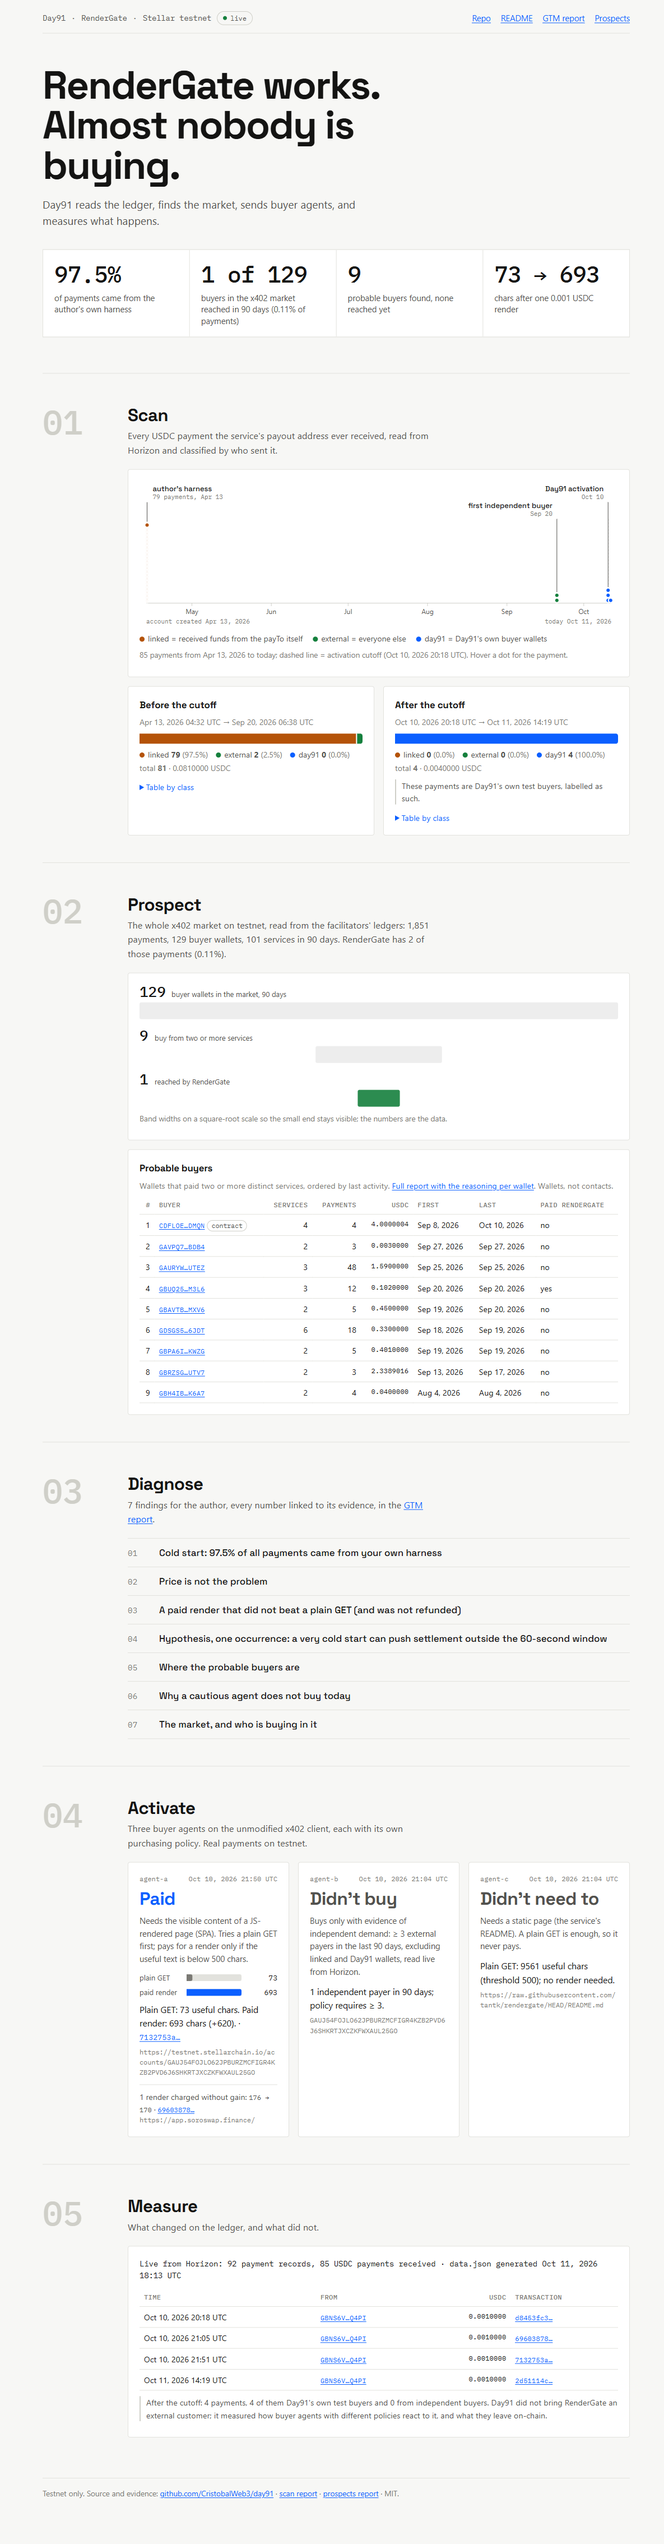
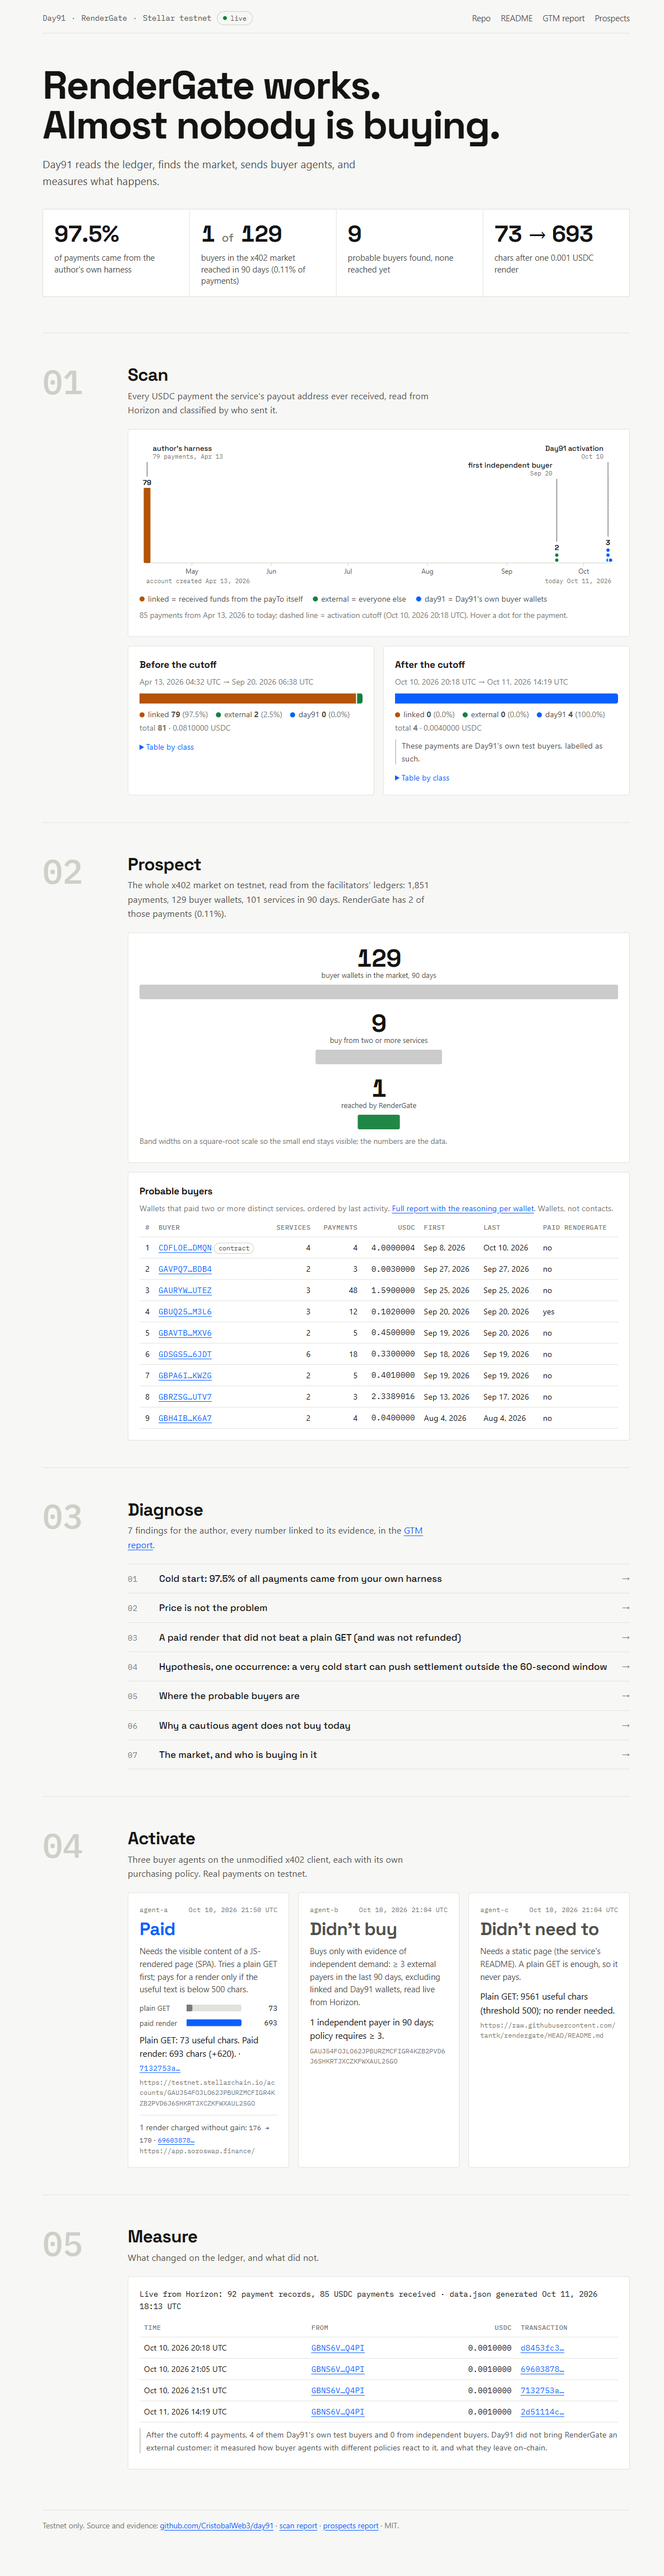
Funnel: columnas sólidas en la línea de tiempo, hero en Space Grotesk, embudo centrado, links y hallazgos
- 01 Scan: días con > 6 pagos como columna sólida escalada al día más cargado (79),
  con el conteo encima; días con pocos pagos como puntos con conteo (2, 3); rótulos
  del eje en dos líneas en móvil
- Hero: cifras en Space Grotesk con tabular-nums, 'of' menor y atenuado; titular en
  dos líneas
- 02 Prospect: embudo centrado con números de 44 px y bandas más contrastadas
- nav sin subrayado (hover), links de texto en acento con subrayado fino, sin estilo
  por defecto; flecha '→' en cada hallazgo con desplazamiento al hover; columna USDC
  al mismo tamaño que el resto
- docs/screenshots: 4 vistas regeneradas + hero.png y section-01-scan.png

diff --git a/docs/index.html b/docs/index.html
@@ -35,7 +35,8 @@
   html { scroll-behavior: smooth; }
   body { margin: 0; background: var(--bg); color: var(--fg); font: 16px/1.55 var(--body); -webkit-font-smoothing: antialiased; }
   main { max-width: 1080px; margin: 0 auto; padding: 20px 16px 80px; }
-  a { color: var(--accent); text-decoration-thickness: 1px; text-underline-offset: 2px; }
+  a, a:visited { color: var(--accent); text-decoration: underline; text-decoration-thickness: 1px; text-underline-offset: 3px; }
+  a:hover { text-decoration-thickness: 2px; }
   p { margin: 0 0 8px; }
   .muted { color: var(--muted); }
   .mono { font-family: var(--mono); font-size: 0.86em; }
@@ -50,12 +51,15 @@
   .pill::before { content: ""; width: 7px; height: 7px; border-radius: 50%; background: var(--muted); }
   .pill.live::before { background: var(--external); } .pill.snapshot::before { background: var(--linked); }
   nav { display: flex; flex-wrap: wrap; gap: 4px 18px; font-size: 0.92rem; }
+  nav a, nav a:visited { color: var(--fg-2); text-decoration: none; }
+  nav a:hover { color: var(--fg); text-decoration: underline; text-decoration-thickness: 1px; }
   .hero { padding: 56px 0 24px; }
-  h1 { font-family: var(--display); font-weight: 700; letter-spacing: -0.03em; line-height: 1.02; font-size: clamp(2.2rem, 6.2vw, 4.4rem); margin: 0 0 18px; max-width: 16ch; }
+  h1 { font-family: var(--display); font-weight: 700; letter-spacing: -0.03em; line-height: 1.02; font-size: clamp(2.2rem, 6.2vw, 4.4rem); margin: 0 0 18px; max-width: 26ch; }
   .sub { font-size: clamp(1.05rem, 1.6vw, 1.25rem); color: var(--fg-2); max-width: 60ch; margin: 0; }
   .tiles { display: grid; grid-template-columns: repeat(4, 1fr); gap: 1px; background: var(--line); border: 1px solid var(--line); margin: 36px 0 0; }
   .tile { background: var(--card); padding: 22px 20px 18px; min-width: 0; }
-  .tile .value { font-family: var(--mono); font-weight: 500; font-size: clamp(1.9rem, 3.4vw, 2.9rem); line-height: 1.05; letter-spacing: -0.02em; white-space: nowrap; }
+  .tile .value { font-family: var(--display); font-weight: 700; font-variant-numeric: tabular-nums; font-size: clamp(1.9rem, 3.4vw, 2.9rem); line-height: 1.05; letter-spacing: -0.02em; white-space: nowrap; }
+  .tile .value .of { font-size: 0.5em; font-weight: 500; color: var(--muted); margin: 0 0.15em; letter-spacing: 0; }
   .tile .label { color: var(--fg-2); font-size: 0.92rem; margin-top: 10px; line-height: 1.4; }
   @media (max-width: 760px) { .tiles { grid-template-columns: 1fr 1fr; } .tile { padding: 16px 14px 14px; } }
 
@@ -85,9 +89,11 @@
   .chart .leader { stroke: var(--fg-2); stroke-width: 1; fill: none; }
   .chart .pt.linked { fill: var(--linked); } .chart .pt.external { fill: var(--external); } .chart .pt.day91 { fill: var(--day91); }
   .chart .pt { stroke: var(--card); stroke-width: 2; }
-  .chart .band { fill: var(--fg); opacity: 0.08; }
-  .chart .band.hot { fill: var(--external); opacity: 0.9; }
-  .chart text.fval { font-family: var(--mono); font-size: 26px; font-weight: 500; fill: var(--fg); }
+  .chart .col.linked { fill: var(--linked); } .chart .col.external { fill: var(--external); } .chart .col.day91 { fill: var(--day91); }
+  .chart text.cnt { font-family: var(--display); font-weight: 700; font-size: 13px; fill: var(--fg); }
+  .chart .band { fill: var(--fg); opacity: 0.22; }
+  .chart .band.hot { fill: var(--external); opacity: 0.95; }
+  .chart text.fval { font-family: var(--display); font-weight: 700; font-variant-numeric: tabular-nums; font-size: 44px; letter-spacing: -0.02em; fill: var(--fg); }
   .chart text.flabel { font-size: 13px; fill: var(--fg-2); }
   .caption { font-size: 0.85rem; color: var(--muted); margin-top: 8px; }
 
@@ -106,15 +112,19 @@
   th, td { text-align: left; padding: 7px 8px; border-bottom: 1px solid var(--line); vertical-align: top; }
   th { color: var(--muted); font-weight: 500; font-family: var(--mono); font-size: 0.72rem; text-transform: uppercase; letter-spacing: 0.06em; }
   td.num, th.num { text-align: right; font-variant-numeric: tabular-nums; }
+  table .mono { font-size: inherit; }
   tr.total td { font-weight: 600; border-bottom: none; }
   .tag { display: inline-block; padding: 0 7px; border-radius: 999px; font-family: var(--mono); font-size: 0.72rem; border: 1px solid var(--line-2); color: var(--fg-2); white-space: nowrap; }
 
   /* Findings */
   ol.findings { list-style: none; margin: 0; padding: 0; counter-reset: f; border-top: 1px solid var(--line); }
-  ol.findings li { display: grid; grid-template-columns: 44px 1fr; gap: 12px; padding: 12px 0; border-bottom: 1px solid var(--line); align-items: baseline; }
+  ol.findings li { display: grid; grid-template-columns: 44px 1fr auto; gap: 12px; padding: 12px 0; border-bottom: 1px solid var(--line); align-items: baseline; }
   ol.findings .n { font-family: var(--mono); color: var(--muted); font-size: 0.9rem; }
-  ol.findings a { color: var(--fg); text-decoration: none; font-family: var(--display); font-weight: 500; font-size: 1.05rem; }
-  ol.findings a:hover { color: var(--accent); text-decoration: underline; }
+  ol.findings a, ol.findings a:visited { color: var(--fg); text-decoration: none; font-family: var(--display); font-weight: 500; font-size: 1.05rem; }
+  ol.findings .arrow { color: var(--muted); font-family: var(--display); font-size: 1.1rem; transition: transform 160ms ease, color 160ms ease; }
+  ol.findings li:hover a { color: var(--accent); text-decoration: underline; text-decoration-thickness: 1px; }
+  ol.findings li:hover .arrow { transform: translateX(5px); color: var(--accent); }
+  @media (prefers-reduced-motion: reduce) { ol.findings .arrow { transition: none; } }
 
   /* Agent cards */
   .cards { display: grid; grid-template-columns: repeat(3, 1fr); gap: 16px; }
@@ -258,15 +268,16 @@
   const fmtShort = (iso) => { const p = parts(iso); return `${p.month} ${p.day}`; };
 
   // Count-up for the hero figures: every numeric token in the value animates from 0; off under reduced motion.
+  const heroHtml = (s) => esc(s).replace(/\bof\b/, '<span class="of">of</span>');
   function countUp(node, text) {
-    if (REDUCED) { node.textContent = text; return; }
+    if (REDUCED) { node.innerHTML = heroHtml(text); return; }
     const tokens = text.split(/(\d+(?:\.\d+)?)/);
     const start = performance.now(), dur = 1100;
     const ease = (t) => 1 - Math.pow(1 - t, 3);
     const frame = (now) => {
       const k = ease(Math.min(1, (now - start) / dur));
-      node.textContent = tokens.map((t, i) => (i % 2 ? (t.includes(".") ? (Number(t) * k).toFixed(t.split(".")[1].length) : String(Math.round(Number(t) * k))) : t)).join("");
-      if (k < 1) requestAnimationFrame(frame); else node.textContent = text;
+      node.innerHTML = heroHtml(tokens.map((t, i) => (i % 2 ? (t.includes(".") ? (Number(t) * k).toFixed(t.split(".")[1].length) : String(Math.round(Number(t) * k))) : t)).join(""));
+      if (k < 1) requestAnimationFrame(frame); else node.innerHTML = heroHtml(text);
     };
     requestAnimationFrame(frame);
   }
@@ -335,8 +346,8 @@
 
   // Timeline: one dot per payment, same-day payments stacked; drawn in real pixels so text never shrinks.
   function drawTimeline(svg, payments, t0iso, cutoff) {
-    const W = Math.max(300, svg.parentElement.clientWidth - 40), H = 262;
-    const padL = 12, padR = 12, top = 74, y0 = H - 44, maxCol = y0 - top - 8;
+    const W = Math.max(300, svg.parentElement.clientWidth - 40), narrow = W < 600, H = narrow ? 278 : 262;
+    const padL = 12, padR = 12, top = 74, y0 = H - (narrow ? 60 : 44), maxCol = y0 - top - 8;
     svg.setAttribute("viewBox", `0 0 ${W} ${H}`); svg.setAttribute("width", W); svg.setAttribute("height", H);
     svg.innerHTML = "";
     const t0 = Date.parse(t0iso ?? payments[0]?.at ?? cutoff), t1 = Date.now();
@@ -350,22 +361,42 @@
     }
     svg.appendChild(el("line", { x1: padL, x2: W - padR, y1: y0, y2: y0, class: "axis" }));
     svg.appendChild(el("text", { x: padL, y: y0 + 36, class: "anno-sub" }, `account created ${fmtDay(new Date(t0).toISOString())}`));
-    svg.appendChild(el("text", { x: W - padR, y: y0 + 36, "text-anchor": "end", class: "anno-sub" }, `today ${fmtDay(new Date(t1).toISOString())}`));
+    svg.appendChild(el("text", { x: W - padR, y: y0 + (narrow ? 52 : 36), "text-anchor": "end", class: "anno-sub" }, `today ${fmtDay(new Date(t1).toISOString())}`));
     // cutoff line
     const xc = x(cutoff);
     svg.appendChild(el("line", { x1: xc, x2: xc, y1: top - 6, y2: y0, class: "tick", "stroke-dasharray": "3 3" }));
-    // dots
+    // One column per day: ≤ 6 payments as dots, more as a solid column scaled to the busiest day; count on top from 2 up.
     const days = new Map();
     for (const p of payments) { const k = p.at.slice(0, 10); days.set(k, [...(days.get(k) ?? []), p]); }
+    const maxN = Math.max(1, ...[...days.values()].map((l) => l.length));
     const colTop = new Map();
     for (const [day, list] of days) {
-      const n = list.length, step = Math.min(9, maxCol / n), xx = x(day + "T12:00:00Z");
-      list.sort((a, b) => a.at.localeCompare(b.at)).forEach((p, i) => {
-        const c = el("circle", { cx: xx, cy: y0 - 5 - i * step, r: 4, class: `pt ${p.cls}` });
-        c.appendChild(el("title", {}, `${fmtDate(p.at)} · ${p.cls} · ${fmt(p.amount)} USDC · ${short(p.from)}`));
-        svg.appendChild(c);
-      });
-      colTop.set(day, y0 - 5 - (n - 1) * step - 4);
+      const n = list.length, xx = x(day + "T12:00:00Z");
+      let topY;
+      if (n > 6) {
+        const total = (n / maxN) * maxCol;
+        let yCursor = y0;
+        for (const cls of CLASSES) {
+          const sub = list.filter((p) => p.cls === cls);
+          if (!sub.length) continue;
+          const hgt = Math.max(2, (sub.length / n) * total - 2);
+          yCursor -= hgt;
+          const r = el("rect", { x: xx - 6, y: yCursor, width: 12, height: hgt, rx: 2, class: `col ${cls}` });
+          r.appendChild(el("title", {}, `${fmtDay(day + "T00:00:00Z")} · ${sub.length} ${cls} payment${sub.length === 1 ? "" : "s"} · ${fmt(sub.reduce((a, p) => a + p.amount, 0n))} USDC`));
+          svg.appendChild(r);
+          yCursor -= 2;
+        }
+        topY = yCursor + 2;
+      } else {
+        list.sort((a, b) => a.at.localeCompare(b.at)).forEach((p, i) => {
+          const c = el("circle", { cx: xx, cy: y0 - 5 - i * 9, r: 4, class: `pt ${p.cls}` });
+          c.appendChild(el("title", {}, `${fmtDate(p.at)} · ${p.cls} · ${fmt(p.amount)} USDC · ${short(p.from)}`));
+          svg.appendChild(c);
+        });
+        topY = y0 - 5 - (n - 1) * 9 - 4;
+      }
+      if (n >= 2) { svg.appendChild(el("text", { x: xx, y: topY - 5, "text-anchor": "middle", class: "cnt" }, String(n))); topY -= 18; }
+      colTop.set(day, topY);
     }
     // annotations, derived from the data
     const linkedDays = [...days.entries()].map(([k, l]) => [k, l.filter((p) => p.cls === "linked").length]).sort((a, b) => b[1] - a[1]);
@@ -388,18 +419,18 @@
 
   // Funnel: three bands, widths on a sqrt scale so 1 of 129 is still visible; numbers carry the truth.
   function drawFunnel(svg, levels) {
-    const W = Math.max(300, svg.parentElement.clientWidth - 40), textH = 30, bandH = 30, gap = 18;
-    const H = levels.length * (textH + bandH + gap) - gap + 4;
+    const W = Math.max(300, svg.parentElement.clientWidth - 40), numH = 46, labelH = 22, bandH = 26, gap = 22;
+    const level = numH + labelH + bandH + gap;
+    const H = levels.length * level - gap + 6;
     svg.setAttribute("viewBox", `0 0 ${W} ${H}`); svg.setAttribute("width", W); svg.setAttribute("height", H);
     svg.innerHTML = "";
-    const max = Math.sqrt(Math.max(1, levels[0].value));
+    const max = Math.sqrt(Math.max(1, levels[0].value)), cx = W / 2;
     levels.forEach((lv, i) => {
-      const yText = i * (textH + bandH + gap) + 22, yBand = yText + 10;
-      const w = Math.max(12, (Math.sqrt(lv.value) / max) * W), xx = (W - w) / 2;
-      const val = el("text", { x: 0, y: yText, class: "fval" }, lv.value.toLocaleString("en-US"));
-      svg.appendChild(val);
-      svg.appendChild(el("text", { x: 0, y: yText, class: "flabel", dx: String(lv.value).length * 15 + 12 }, lv.label));
-      svg.appendChild(el("rect", { x: xx, y: yBand, width: w, height: bandH, rx: 3, class: `band${i === levels.length - 1 ? " hot" : ""}` }));
+      const yNum = i * level + 40, yLabel = yNum + 20, yBand = yLabel + 12;
+      const w = Math.max(14, (Math.sqrt(lv.value) / max) * W);
+      svg.appendChild(el("text", { x: cx, y: yNum, "text-anchor": "middle", class: "fval" }, lv.value.toLocaleString("en-US")));
+      svg.appendChild(el("text", { x: cx, y: yLabel, "text-anchor": "middle", class: "flabel" }, lv.label));
+      svg.appendChild(el("rect", { x: cx - w / 2, y: yBand, width: w, height: bandH, rx: 3, class: `band${i === levels.length - 1 ? " hot" : ""}` }));
     });
   }
 
@@ -434,7 +465,7 @@
     const payTo = data.service.payTo;
     $("svc-name").textContent = data.service.name;
     $("nav").innerHTML = [["Repo", data.links.repo], ["README", data.links.readme], ["GTM report", data.links.report], ["Prospects", data.links.prospectsMd]].map(([t, h]) => ext(h, t)).join("");
-    $("headline").textContent = data.headline;
+    { const i = data.headline.indexOf(". "); $("headline").innerHTML = i > 0 ? `${esc(data.headline.slice(0, i + 1))}<br>${esc(data.headline.slice(i + 2))}` : esc(data.headline); }
     $("subline").textContent = data.subline;
 
     const h = data.hero;
@@ -486,7 +517,7 @@
     if (data.findings?.length) {
       $("diagnose").hidden = false;
       $("diagnose-lead").innerHTML = `${data.findings.length} findings for the author, every number linked to its evidence, in the ${ext(data.links.report, "GTM report")}.`;
-      $("findings").innerHTML = data.findings.map((f) => `<li><span class="n">${String(f.n).padStart(2, "0")}</span>${ext(f.url, esc(f.title))}</li>`).join("");
+      $("findings").innerHTML = data.findings.map((f) => `<li><span class="n">${String(f.n).padStart(2, "0")}</span>${ext(f.url, esc(f.title))}<span class="arrow" aria-hidden="true">→</span></li>`).join("");
     }
 
     $("cards").innerHTML = decisionCards(data.decisions);
